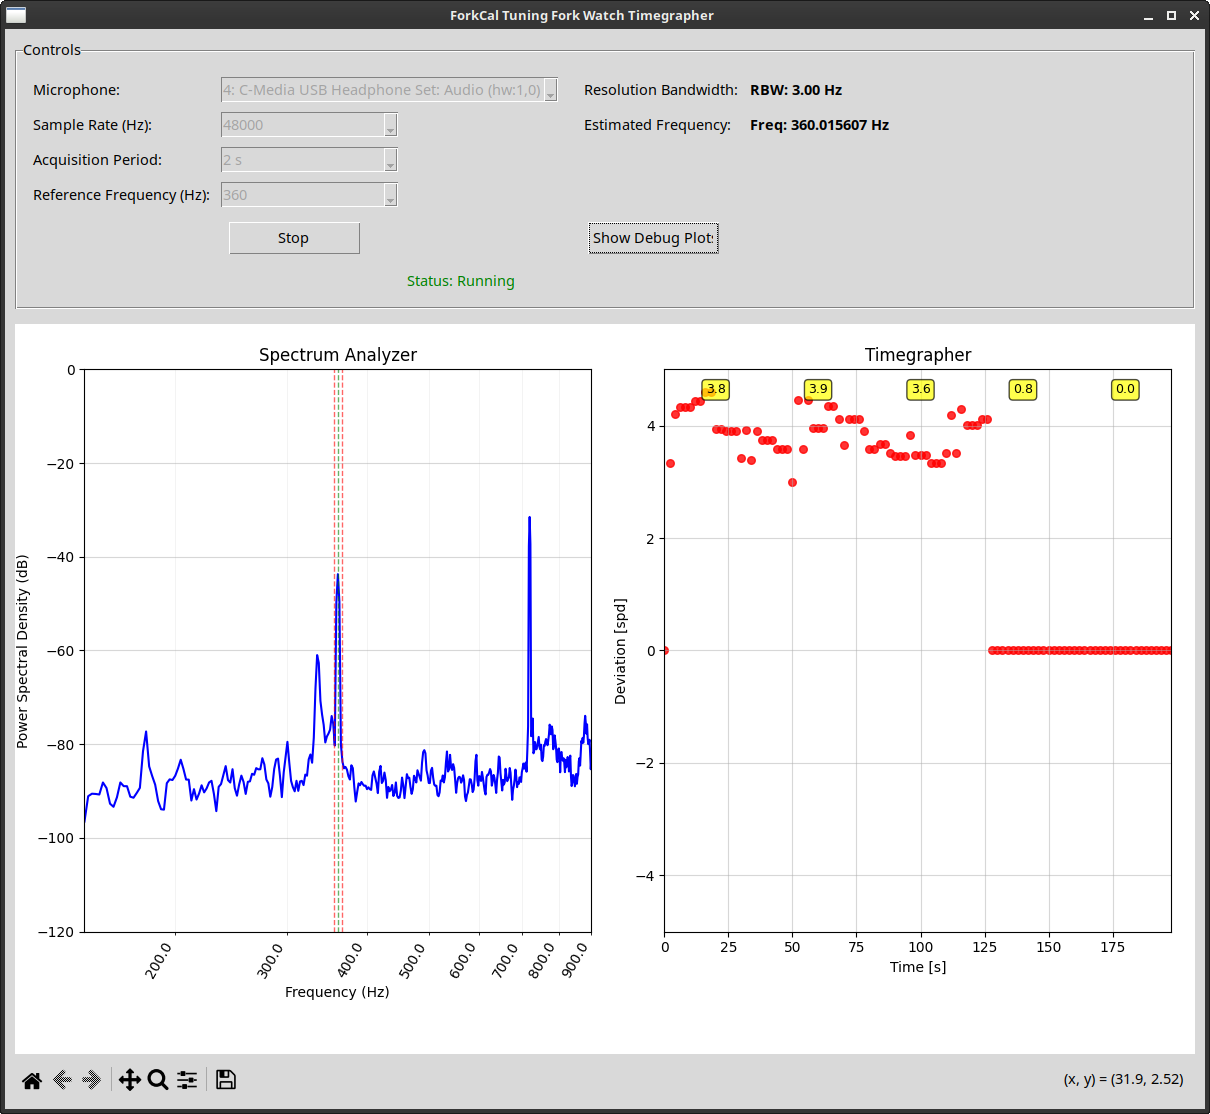
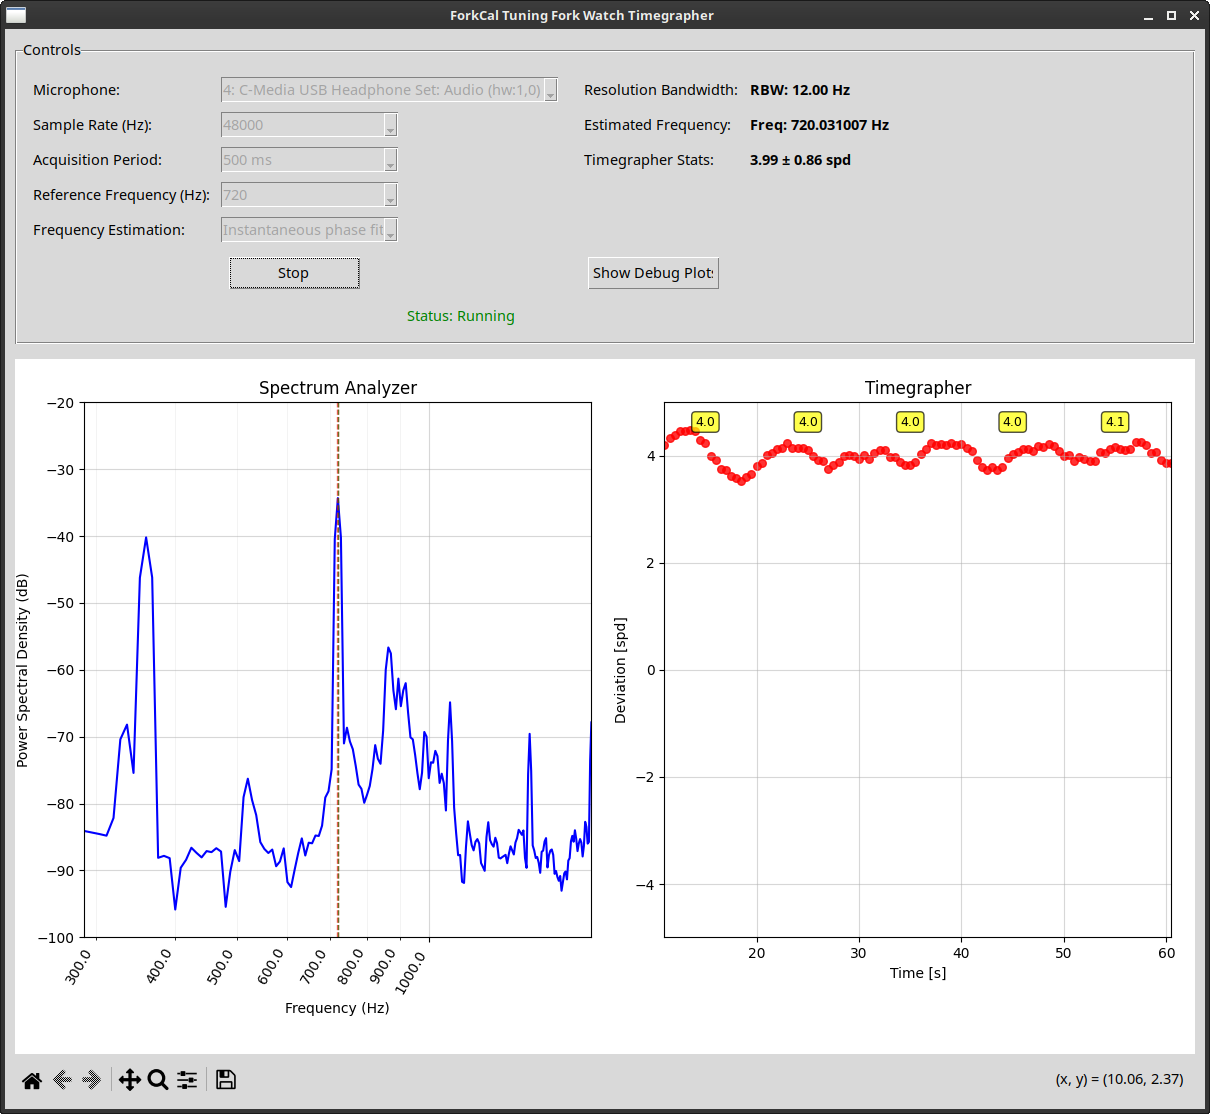
updated screenshot and timegrapher plotting

diff --git a/forkcal.py b/forkcal.py
@@ -441,15 +441,25 @@ class SpectrumAnalyzerGUI:
                     window_values = []
                     for j in range(N_moving_avg):
                         idx = (self.data_index - j) % 100
-                        window_values.append(self.deviation_data_raw[idx])
+                        if self.deviation_data_raw[idx] != 0.0:
+                            window_values.append(self.deviation_data_raw[idx])
                     avg = np.mean(window_values)
                     self.deviation_data[self.data_index] = avg
 
                     # Increment index (wrap around at 100)
                     self.data_index = (self.data_index + 1) % 100
 
-                    # Update timegrapher scatter plot
-                    self.line_time.set_offsets(np.column_stack((self.time_data, self.deviation_data)))
+                    # Update timegrapher scatter plot (only plot valid non-zero data)
+                    # Filter out points where raw data is zero (invalid/unpopulated)
+                    raw_data_array = np.array(self.deviation_data_raw)
+                    valid_mask = raw_data_array != 0.0
+                    time_data_array = np.array(self.time_data)
+                    deviation_data_array = np.array(self.deviation_data)
+
+                    # Only plot points with valid raw data
+                    valid_times = time_data_array[valid_mask]
+                    valid_deviations = deviation_data_array[valid_mask]
+                    self.line_time.set_offsets(np.column_stack((valid_times, valid_deviations)))
 
                     # Compute averages for 5 groups of 20 points each
                     for group_idx in range(5):
